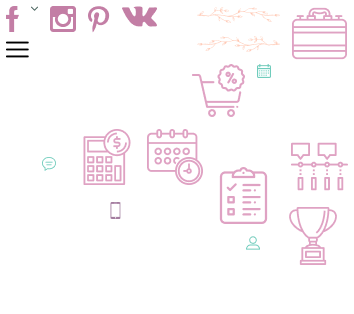
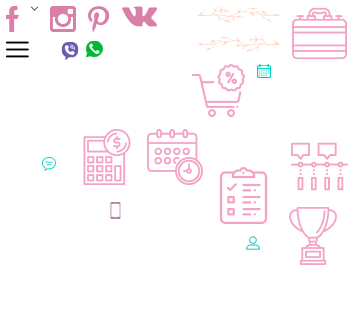
Верстка готова. Без адаптации. Также обновлены иконки во всех папках

diff --git a/wedding-photographer-card/css/style.css b/wedding-photographer-card/css/style.css
@@ -300,6 +300,11 @@ header{
 #card-all{
 
 }
+.card-all-content{
+	display: flex;
+	justify-content: space-between;
+	flex-wrap: wrap;
+}
 .card-all-left{
 	width: 74.2%;
 }
@@ -386,7 +391,8 @@ header{
 }
 .card-all-left-images-more,
 .card-all-left-comments-more,
-.card-all-left-questions-more{
+.card-all-left-questions-more,
+.card-all-right-item-submit-link{
 	background: #ABC2B0;
 	color: #fff;
 	border-radius: 30px;
@@ -405,7 +411,8 @@ header{
 	transition: all 0.2s ease-out;
 }
 .card-all-left-images-more:hover,
-.card-all-left-comments-more:hover{
+.card-all-left-comments-more:hover,
+.card-all-right-item-submit-link:hover{
 	background: #7fa487;
 	transition: all 0.2s ease-out;
 }
@@ -547,7 +554,7 @@ header{
 }
 
 .card-all-left-questions{
-
+	margin-bottom: 80px;
 }
 .card-all-left-questions-wrap{
 
@@ -598,6 +605,238 @@ header{
 	background-size: 100%;
 	background-position: center;
 	background-repeat: no-repeat;
+}
+
+.card-all-right{
+	width: 23%;
+}
+.card-all-right-item{
+	background: #FAF6F4;
+	border-radius: 30px;
+	padding: 20px;
+	box-sizing: border-box;	
+	text-align: center;
+	margin-bottom: 20px;
+	margin-right: 19px;
+}
+.card-all-right-item-avatar{
+	position: relative;
+	margin-bottom: 20px;
+}
+.card-all-right-item-avatar-img{
+	width: 100%;
+	display: block;
+	border-radius: 30px;
+}
+.card-all-right-item-avatar-pro{
+	position: absolute;
+	padding: 7px 15px;
+	border-radius: 30px;
+	background: #fff;	
+	text-transform: uppercase;
+	color: #8F7A99;
+	top: 10px;
+    right: 10px;
+}
+.card-all-right-item-favorite{
+	background: #8F7A99;
+	border-radius: 30px;
+	display: flex;
+	justify-content: center;
+	align-items: center;
+	color: #fff;
+	font-size: 16px;
+	padding: 11px 0;
+	margin-bottom: 16px;
+	transition: all 0.2s ease-out;
+}
+.card-all-right-item-favorite:hover{
+	background: #7b5c8a;
+    transition: all 0.2s ease-out;
+}
+.card-all-right-item-favorite-icon{
+	width: 18px;
+	height: 18px;
+	display: block;
+	background-image: url("../img/icons.webp");
+	background-size: 300px;
+	background-repeat: no-repeat;
+	background-position: -134px -240px;
+	margin-right: 7px;
+}
+.card-all-right-item-favorite-icon.active{
+	background-position: -156px -240px;
+}
+.card-all-right-item-name{
+	font-size: 25px;
+	line-height: 28px;
+	font-family: "Forum";
+	color: #424443;
+	text-align: center;
+	margin-bottom: 12px;
+}
+.card-all-right-item-text{
+	font-size: 16px;
+	color: #B0B0B0;
+	text-align: center;
+	margin-bottom: 19px;
+}
+.card-all-right-item-phone{
+	font-size: 18px;
+	font-family: "Forum";
+	color: #424443;
+	display: inline-block;
+	position: relative;
+	margin-bottom: 13px;
+}
+.card-all-right-item-phone:before{
+	content: "";
+    position: absolute;
+    width: 17px;
+    height: 17px;
+    top: 1px;
+    left: -19px;
+    background-image: url(../img/icons.webp);
+    background-repeat: no-repeat;
+    background-size: 272px;
+    background-position: -80px -153px;
+}
+.card-all-right-item-socials{
+	display: flex;
+    justify-content: center;
+    margin-bottom: 20px;
+}
+.card-all-right-item-socials-icon{
+	display: block;
+    width: 43px;
+    height: 43px;
+    background: #ABC2B0;
+    border-radius: 50%;
+    font-size: 0;
+    transition: all .2s ease-out;
+    position: relative;
+    margin-right: 7px;
+}
+.card-all-right-item-socials-icon:hover{
+	background: #96b49d;
+    transition: all .2s ease-out;
+}
+.card-all-right-item-socials-icon.inst:before{
+	content: "";
+    position: absolute;
+    width: 17px;
+    background-image: url("../img/icons.webp");
+    height: 17px;
+    top: calc(50% - 17px / 2);
+    left: calc(50% - 17px / 2);
+    background-size: 326px;
+    background-position: -42px -187px;
+    background-repeat: no-repeat;
+}
+.card-all-right-item-socials-icon.vk:before{
+	content: "";
+    position: absolute;
+    background-image: url("../img/icons.webp");
+    width: 23px;
+    height: 13px;
+    top: calc(50% - 13px / 2);
+    left: calc(50% - 23px / 2);
+    background-size: 326px;
+    background-position: -67px -188px;
+    background-repeat: no-repeat;
+}
+.card-all-right-item-price-span{
+	font-size: 18px;
+	font-family: "Forum";
+}
+.card-all-right-item-price-span.old{
+	text-decoration-line: line-through;
+	color: #ABC2B0;
+	margin: 0 10px;
+}
+
+.card-all-right-item-write{
+	margin-bottom: 24px;
+}
+.card-all-right-item-write-link{
+	display: flex;
+	justify-content: center;
+	align-items: center;
+	color: #424443;
+	background: #fff;
+	border-radius: 30px;
+	padding: 12px 0;
+	margin-bottom: 10px;
+}
+.card-all-right-item-write-link-icon{
+	display: block;
+	width: 18px;
+	height: 18px;
+	background-image: url("../img/icons.webp");
+	background-size: 300px;
+	background-repeat: no-repeat;
+	margin-right: 7px;
+}
+.card-all-right-item-write-link-icon.wb{
+	background-position: -50px -35px;
+}
+.card-all-right-item-write-link-icon.wp{
+	background-position: -70px -33px;
+}
+.card-all-right-item-write-link-span{
+
+}
+.card-all-right-item-submit{
+
+}
+.card-all-right-item-submit-text{
+	margin-bottom: 5px;
+	text-align: center;
+	color: #424443;
+}
+
+
+#socials{
+
+}
+.socials-container{
+	padding: 31px 0;
+	border-top: 2px solid #e6e6e6;
+	border-bottom: 2px solid #e6e6e6;
+}
+.socials-content{
+	display: flex;
+	justify-content: center;
+}
+.socials-link{
+	background: #F8F3F0;
+	border-radius: 50%;
+	padding: 15px;
+	margin-right: 8px;
+	transition: all 0.2s ease;
+}
+.socials-link:hover{
+	background: #e8e3e1;
+	transition: all 0.2s ease;
+}
+.socials-link-icon{
+	display: block;
+	width: 33px;
+	height: 33px;	
+	background-repeat: no-repeat;
+	background-size: 307px;
+}
+.socials-link-icon.fb{
+	background-position: 6px 0px;
+}
+.socials-link-icon.ig{
+	background-position: -38px -1px;
+}
+.socials-link-icon.p{
+	background-position: -68px 0px;
+}
+.socials-link-icon.vk{
+	background-position: -105px 4px;
 }
 
 

diff --git a/wedding-photographer-card/js/my.js b/wedding-photographer-card/js/my.js
@@ -1,8 +1,8 @@
 /*Добавить в избранное*/
 
-$(".best-content-alternative-item-avata-like").on('click', function(){
-    if(!($(".best-content-alternative-item-avata-like-span", this).hasClass("active"))) $(".best-content-alternative-item-avata-like-span", this).addClass('active');
-    else $(".best-content-alternative-item-avata-like-span", this).removeClass('active');
+$(".card-all-right-item-favorite").on('click', function(){
+    if(!($(".card-all-right-item-favorite-icon", this).hasClass("active"))) $(".card-all-right-item-favorite-icon", this).addClass('active');
+    else $(".card-all-right-item-favorite-icon", this).removeClass('active');
     return false;
 });
 

diff --git a/wedding-photographer-card/index.php b/wedding-photographer-card/index.php
@@ -151,7 +151,7 @@
 
 		<section id="card-all">
 			<div class="container">
-				<div class="content">
+				<div class="content card-all-content">
 					<div class="card-all-left">
 						<div class="card-all-left-desc">
 							<p class="card-all-left-desc-p">Lorem ipsum dolor sit amet, consectetuer adipiscing elit, sed diam nonummy nibh euismod tincidunt ut laoreet dolore magna aliquam erat volutpat. Ut wisi enim ad minim veniam, quis nostrud exerci tation ullamcorper suscipit lobortis nisl ut aliquip ex ea commodo consequat. Duis autem vel eum iriure dolor in hendrerit in vulputate velit esse molestie consequat, vel illum dolore eu feugiat nulla facilisis at vero eros et accumsan et iusto odio dignissim.</p>
@@ -298,7 +298,45 @@
 						</div>
 					</div>						
 					<div class="card-all-right">
+						<div class="card-all-right-item">
+							<div class="card-all-right-item-avatar">
+								<img class="card-all-right-item-avatar-img" src="img/photographers/2.webp" alt="">
+								<span class="card-all-right-item-avatar-pro">pro</span>								
+							</div>
+							<h3 class="card-all-right-item-name">Николай Чернышов</h3>
+							<a class="card-all-right-item-favorite" href="#"><i class="card-all-right-item-favorite-icon"></i>В избранное</a>
+							<div class="card-all-right-item-phone">+7 (000) 123 45 67</div>
+							<div class="card-all-right-item-socials">
+								<a class="card-all-right-item-socials-icon inst" href="#">Инстаграм</a>
+								<a class="card-all-right-item-socials-icon vk" href="#">Вконтакте</a>
+							</div>
+							<div class="card-all-right-item-write">
+								<a class="card-all-right-item-write-link" href="#">
+									<i class="card-all-right-item-write-link-icon wb"></i>
+									<span class="card-all-right-item-write-link-span">Написать в Вайбер</span>
+								</a>
+								<a class="card-all-right-item-write-link" href="#">
+									<i class="card-all-right-item-write-link-icon wp"></i>
+									<span class="card-all-right-item-write-link-span">Написать в Ватсап</span>
+								</a>
+							</div>	
+							<div class="card-all-right-item-submit">
+								<p class="card-all-right-item-submit-text">Свободен на 23 февраля 2020</p>
+								<a class="card-all-right-item-submit-link" href="#">Проверить свою дату</a>
+							</div>						
+						</div>
 					</div>
+				</div>
+			</div>
+		</section>
+
+		<section id="socials">
+			<div class="container socials-container">
+				<div class="content socials-content">
+					<a class="socials-link" href="#"><span class="socials-link-icon fb"></span></a>
+					<a class="socials-link" href="#"><span class="socials-link-icon ig"></span></a>
+					<a class="socials-link" href="#"><span class="socials-link-icon p"></span></a>
+					<a class="socials-link" href="#"><span class="socials-link-icon vk"></span></a>
 				</div>
 			</div>
 		</section>
